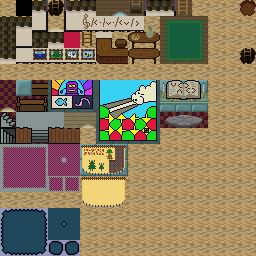
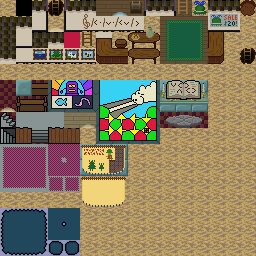
hat shop

Changed region(s): [[0.75, 0.0, 0.9375, 0.25]]

diff --git a/src/app/sprite/types/fmn_sprite_coincollector.c b/src/app/sprite/types/fmn_sprite_coincollector.c
@@ -1,0 +1,129 @@
+#include "app/sprite/fmn_sprite.h"
+#include "app/fmn_game.h"
+
+#define tileid0 sprite->bv[0]
+#define threshold sprite->argv[0]
+#define gsbit sprite->argv[1]
+
+/* Dependent sprites.
+ * One for the arm, two for the digits.
+ */
+ 
+struct cc_search_context {
+  struct fmn_sprite *sprite;
+  int v;
+};
+
+static int cc_open_arm_cb(struct fmn_sprite *q,void *userdata) {
+  struct fmn_sprite *sprite=userdata;
+  if (q->controller!=FMN_SPRCTL_dummy) return 0;
+  if (q->imageid!=sprite->imageid) return 0;
+  if (q->tileid!=tileid0+1) return 0;
+  float dx=q->x-sprite->x,dy=q->y-sprite->y;
+  if ((dx<0.75f)||(dx>1.25f)||(dy<-0.25f)||(dy>0.25f)) return 0;
+  q->physics=0;
+  q->xform=FMN_XFORM_XREV|FMN_XFORM_YREV|FMN_XFORM_SWAP;
+  return 1;
+}
+ 
+static void cc_open_arm(struct fmn_sprite *sprite) {
+  fmn_sprites_for_each(cc_open_arm_cb,sprite);
+}
+
+static int cc_update_digits_cb(struct fmn_sprite *q,void *userdata) {
+  struct cc_search_context *ctx=userdata;
+  struct fmn_sprite *sprite=ctx->sprite;
+  if (q->controller!=FMN_SPRCTL_dummy) return 0;
+  if (q->imageid!=sprite->imageid) return 0;
+  if ((q->tileid&0xf0)!=(tileid0&0xf0)) return 0;
+  if (q->tileid<tileid0+2) return 0;
+  float dx=q->x-sprite->x,dy=q->y-sprite->y;
+  if ((dx<-0.5f)||(dx>0.5f)||(dy<-0.5f)||(dy>0.5f)) return 0;
+  switch (q->bv[0]) {
+    case 1: q->tileid=tileid0+2+(ctx->v%10); break;
+    case 10: q->tileid=tileid0+2+((ctx->v/10)%10); break;
+  }
+  return 0;
+}
+
+static void cc_update_digits(struct fmn_sprite *sprite,int v) {
+  struct cc_search_context ctx={.sprite=sprite,.v=v};
+  fmn_sprites_for_each(cc_update_digits_cb,&ctx);
+}
+ 
+static void cc_create_dependents(struct fmn_sprite *sprite) {
+  struct fmn_sprite *arm=fmn_sprite_generate_noparam(FMN_SPRCTL_dummy,sprite->x+1.0f,sprite->y);
+  if (arm) {
+    arm->imageid=sprite->imageid;
+    arm->tileid=tileid0+1;
+    arm->style=FMN_SPRITE_STYLE_TILE;
+    arm->physics=FMN_PHYSICS_SPRITES;
+    arm->radius=0.5f;
+    arm->invmass=0;
+  }
+  struct fmn_sprite *dig10=fmn_sprite_generate_noparam(FMN_SPRCTL_dummy,sprite->x,sprite->y);
+  if (dig10) {
+    dig10->imageid=sprite->imageid;
+    dig10->tileid=tileid0+2;
+    dig10->style=FMN_SPRITE_STYLE_TILE;
+    dig10->layer=sprite->layer+1;
+    dig10->bv[0]=10;
+  }
+  struct fmn_sprite *dig01=fmn_sprite_generate_noparam(FMN_SPRCTL_dummy,sprite->x+0.25f,sprite->y);
+  if (dig01) {
+    dig01->imageid=sprite->imageid;
+    dig01->tileid=tileid0+2;
+    dig01->style=FMN_SPRITE_STYLE_TILE;
+    dig01->layer=sprite->layer+1;
+    dig01->bv[0]=1;
+  }
+}
+
+/* Accept coin.
+ * Return nonzero if accepted (same as interact)
+ */
+ 
+static int16_t cc_accept_coin(struct fmn_sprite *sprite) {
+  int amount=fmn_gs_get_word(gsbit,7);
+  if (amount>=99) return 0;
+  amount++;
+  fmn_gs_set_word(gsbit,7,amount);
+  if (amount==threshold) {
+    cc_open_arm(sprite);
+  }
+  cc_update_digits(sprite,amount);
+  return 1;
+}
+
+/* Interact.
+ */
+ 
+static int16_t _cc_interact(struct fmn_sprite *sprite,uint8_t itemid,uint8_t qualifier) {
+  switch (itemid) {
+    case FMN_ITEM_COIN: return cc_accept_coin(sprite);
+  }
+  return 0;
+}
+
+/* Init.
+ */
+ 
+static void _cc_init(struct fmn_sprite *sprite) {
+  tileid0=sprite->tileid;
+  cc_create_dependents(sprite);
+  int v=fmn_gs_get_word(gsbit,7);
+  if (v>=99) {
+    v=99;
+    fmn_gs_set_word(gsbit,7,v);
+  }
+  if (v>=threshold) cc_open_arm(sprite);
+  if (v) cc_update_digits(sprite,v);
+}
+
+/* Type definition.
+ */
+ 
+const struct fmn_sprite_controller fmn_sprite_controller_coincollector={
+  .init=_cc_init,
+  .interact=_cc_interact,
+};

diff --git a/src/app/sprite/fmn_sprite.h b/src/app/sprite/fmn_sprite.h
@@ -166,6 +166,7 @@ void fmn_sprite_refunct(struct fmn_sprite *sprite);
 #define FMN_SPRCTL_musicteacher  60
 #define FMN_SPRCTL_musicstand    61
 #define FMN_SPRCTL_bucklock      62
+#define FMN_SPRCTL_coincollector 63
 
 #define FMN_FOR_EACH_SPRCTL \
   _(dummy) \
@@ -230,7 +231,8 @@ void fmn_sprite_refunct(struct fmn_sprite *sprite);
   _(book) \
   _(musicteacher) \
   _(musicstand) \
-  _(bucklock)
+  _(bucklock) \
+  _(coincollector)
   
 struct fmn_sprite_controller {
   void (*init)(struct fmn_sprite *sprite);

diff --git a/README.md b/README.md
@@ -27,7 +27,7 @@ x Need a beach sign from the third screen, otherwise one assumes you're supposed
 - [ ] Village, mostly education.
 - - [x] Song tutorials in the village: Show ghost notes, if you stand in the right place.
 - - [ ] Orphans.
-- - [ ] Purchase hat.
+- - [x] Purchase hat.
 - [ ] Mountains.
 - [ ] Swamp.
 - - [ ] Put a trick floor just west of the maze exit.
@@ -51,6 +51,7 @@ x Need a beach sign from the third screen, otherwise one assumes you're supposed
 - [ ] Church: join path at welcome mat.
 - [ ] Castle basement: Make the church attachment look like the church as a hint.
 - [ ] swamp: forest edge
+- [ ] Hat shop: mannequins
 - [ ] Compass: make easier to read?
 
 ### Further critical features and bugs. Finish before 15 September.
